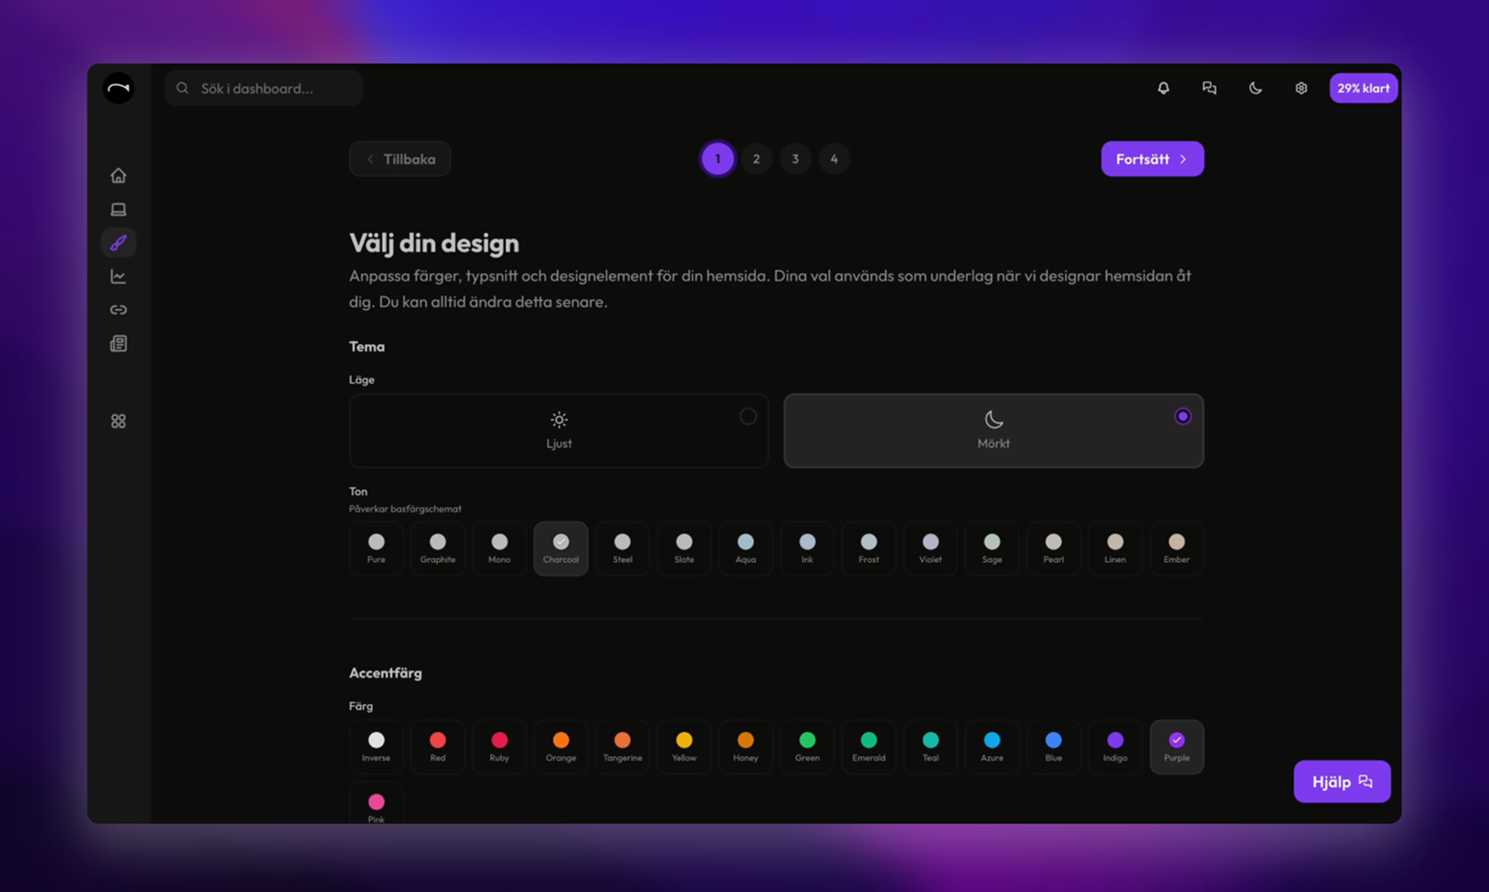
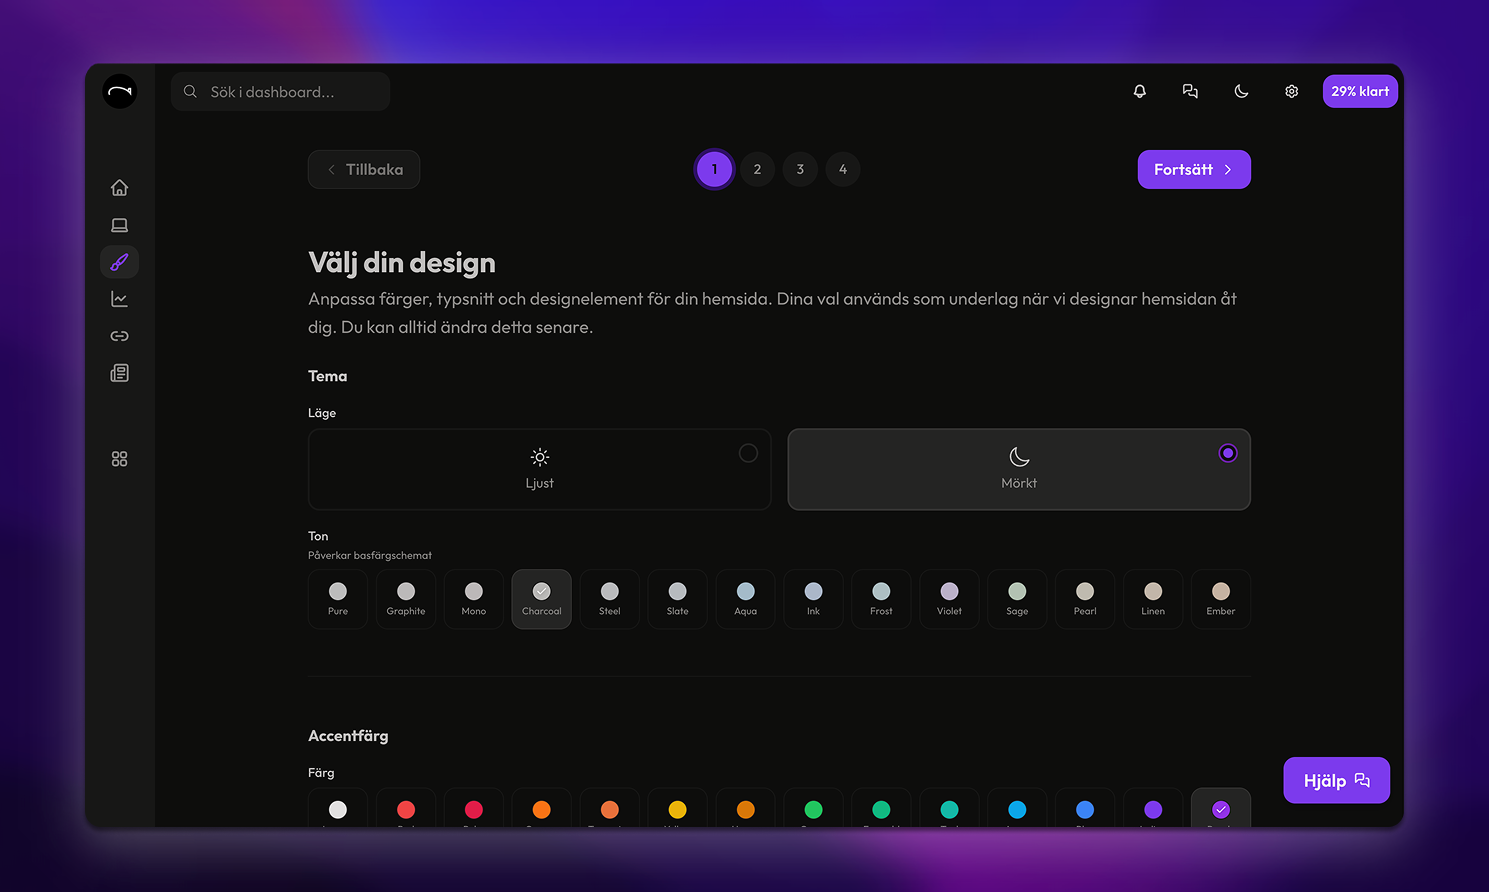
ändrat seo, och hero bilder

diff --git a/app/layout.tsx b/app/layout.tsx
@@ -7,18 +7,26 @@ import { Footer } from '@/components/layout/Footer';
 import { NavbarBar } from '@/components/layout/NavbarBar';
 
 export const metadata: Metadata = {
-  title: 'Blimpify - Hemsida och affärsverktyg',
-  description: 'Hemsida och affärsverktyg – på ett ställe. Vi skapar anpassade hemsidor som du enkelt kan uppdatera utan att förstöra designen.',
-  keywords: ['hemsida', 'webbdesign', 'affärsverktyg', 'CRM', 'bokningssystem', 'Blimpify'],
+  title: 'Blimpify – En hemsida du inte behöver tänka på',
+  description:
+    'Blimpify hjälper företag att få en professionell hemsida utan att behöva bygga eller designa själva. Du delar dina önskemål – vi tar hand om design, struktur och publicering.',
+  keywords: [
+    'hemsida företag',
+    'webbdesign företag',
+    'professionell hemsida',
+    'hemsida utan krångel',
+    'webbdesign tjänst',
+    'Blimpify',
+  ],
   authors: [{ name: 'Blimpify' }],
   openGraph: {
-    title: 'Blimpify - Hemsida och affärsverktyg',
-    description: 'Hemsida och affärsverktyg – på ett ställe.',
+    title: 'Blimpify – En hemsida du inte behöver tänka på',
+    description:
+      'Professionella hemsidor för företag som vill fokusera på sin affär. Vi tar hand om design och struktur – du slipper tänka på tekniken.',
     type: 'website',
     locale: 'sv_SE',
   },
 };
-
 export default async function RootLayout({
   children,
 }: {

diff --git a/components/layout/Footer.tsx b/components/layout/Footer.tsx
@@ -52,8 +52,7 @@ export function Footer() {
             <LogoText>Blimpify AB</LogoText>
 
             <Body size="sm" >
-              Vi skapar anpassade hemsidor som du enkelt kan uppdatera utan att
-              förstöra designen.
+            Vi skapar professionella hemsidor för företag som vill fokusera på sin affär – inte på sin hemsida.
             </Body>
           </VStack>
 

diff --git a/components/sections/HeroSection.tsx b/components/sections/HeroSection.tsx
@@ -60,7 +60,7 @@ Blimpify finns för företag som vill fokusera på sin affär, sina kunder och i
         {/* Dashboard Mockup */}
           <Box style={{ width: '100%'}}>
             <Image
-              src="/assets/order-dark.png"
+              src="/assets/order.png"
               alt="Website Builder Interface"
               width={4500}
               height={2675}